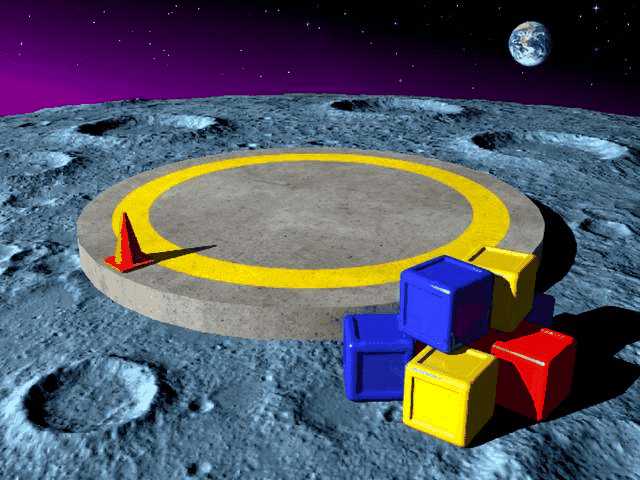
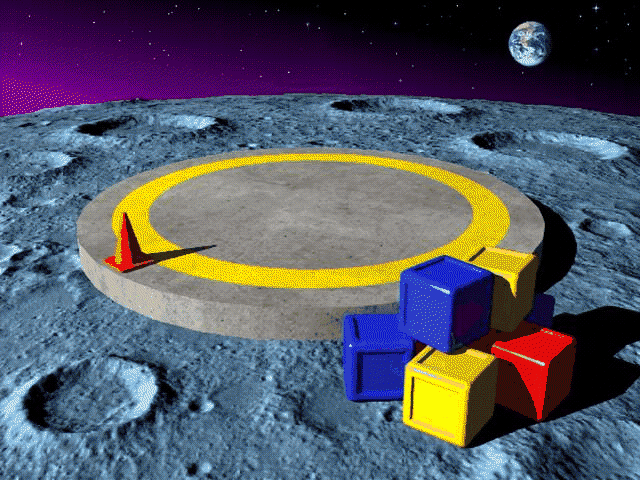
WP1 palette-lås: én masterpalette pr. fase (dag/nat, 255 + transparent) for alle bg + sprites via tools/art/pallock.py; nat-baggrunde bages (*_nat.png) i stedet for darken(); grund-plader uden rgba; dialogboks som 2×2-dither i stedet for rgba(0,0,0,.72); ulåste kilder i assets/unlocked. A3: hub 759→

diff --git a/style.css b/style.css
@@ -24,7 +24,7 @@ body { font-family: var(--ui-font); -webkit-font-smoothing: none; font-smooth: n
 
 /* Era text box: top of screen, white text on translucent black */
 /* Era text box: top of screen, 1-bit text rasterised on the 640 grid (canvas, never DOM text) */
-#dialog { position: absolute; left: 0; top: 0; width: 640px; height: 76px; padding: 8px 12px; background: rgba(0,0,0,.72); pointer-events: auto; }
[1 lines of base64/hex data omitted]
 #dialog[hidden] { display: none; }
 #dialog .text canvas { display: block; image-rendering: pixelated; }
 #dmore { position: absolute; right: 10px; bottom: 2px; font: 12px var(--ui-font); color: #fff; font-style: normal; animation: blink 1s steps(2) infinite; }

diff --git a/src/art/placeholder.js b/src/art/placeholder.js
@@ -140,8 +140,8 @@ export function drawBuilding(g, x, y, stage, kind, night = false) {
   g.save(); g.translate(x, y);
   const base = night ? '#2c2f3a' : '#dfe1ea', dark = night ? '#15171f' : '#8d93a8', accent = night ? '#5a4610' : '#ffbf2f';
   if (stage === 0) {
-    g.fillStyle = night ? 'rgba(40,44,56,.9)' : 'rgba(120,124,140,.8)'; g.fillRect(-26, -4, 52, 10);
-    g.fillStyle = night ? '#555' : '#fff'; g.fillRect(-2, -22, 4, 18); g.fillStyle = accent; g.fillRect(2, -22, 14, 9);
+    g.fillStyle = night ? '#2a2d3a' : '#9aa0b4'; g.fillRect(-26, -4, 52, 10); g.fillStyle = night ? '#15171f' : '#6b7088'; g.fillRect(-26, 5, 52, 1); // WP1: faste palettefarver, ingen rgba (A3)
+    g.fillStyle = night ? '#5a5d6a' : '#fff'; g.fillRect(-2, -22, 4, 18); g.fillStyle = accent; g.fillRect(2, -22, 14, 9);
     g.restore(); return;
   }
   const lean = stage === 1 ? -0.12 : 0;

diff --git a/tools/art/pallock.py b/tools/art/pallock.py
@@ -1,0 +1,115 @@
+# tools/art/pallock.py — WP1 palette-lås (c8, 10-11-2026). QC-POLISH-PLAN §2 WP1 / QUALITY-PLAN §3 gate A3 (≤256 farver pr. frame).
+#
+# Én masterpalette pr. fase (dag / nat): 255 farver + ét transparent indeks (255). Alt spillet tegner fra assets/ i hub og
+# opgavescener remappes til den, så en frame holder sig ≤256 farver uden runtime-kvantisering (council afviste runtime).
+#   Dag : assets/bg/<navn>.png + assets/sprites/{aliens,helper,helper_chair,bld_*}.png + faste UI-farver (knapper, tekst, flag).
+#   Nat : assets/bg/<navn>_nat.png BAGES her fra dag-bg'en med nat-LUT'en (samme formel som nightlut.py: lys 50 %, mætning 50 %,
+#         kold drejning) og remappes sammen med assets/sprites/*_nat.png til nat-paletten. Dermed forsvinder darken()-fallbacken
+#         (rgba + saturation-composite) og bg-404'erne for *_nat.png.
+# Kør EFTER bld.py / aliens.py / helper.py / chair.py / nightlut.py — de skriver friske (ulåste) sprites; dette script låser dem.
+# Paletterne gemmes som 16×16-swatches i assets/pal/{dag,nat}.png (dokumentation + ?dev&pal-overlay hvis det nogensinde bygges).
+# Ulåste kilder gemmes i assets/unlocked/ (committes). Låste filer bærer PNG-tEXt pallock=1, så scriptet kan køres igen uden drift.
+# Brug: ~/Documents/tools/pyimg/bin/python -I tools/art/pallock.py [--dry]      (Pillow; køres fra repo-roden)
+import sys, os, glob, shutil
+from PIL import Image, ImageEnhance, PngImagePlugin
+UNL = 'assets/unlocked'  # ulåste kilder; en låst fil bærer tEXt-chunken pallock=1 og læses aldrig som kilde igen (idempotent)
+
+def source(path):
+    """Returnerer stien til den ULÅSTE kilde for path: en frisk (umarkeret) fil kopieres til assets/unlocked/ først."""
+    u = os.path.join(UNL, os.path.relpath(path, 'assets'))  # assets/unlocked/bg/hub.png, assets/unlocked/sprites/aliens.png
+    if 'pallock' not in Image.open(path).info: os.makedirs(os.path.dirname(u), exist_ok=True); shutil.copy2(path, u)
+    elif not os.path.exists(u): raise SystemExit(f'{path} er låst, men {u} mangler – gendan kilden (git) før pallock')
+    return u
+
+DRY = '--dry' in sys.argv
+BG_DIR, SPR_DIR, PAL_DIR = 'assets/bg', 'assets/sprites', 'assets/pal'
+T = 255  # transparent index
+# Faste UI-farver (style.css, hub.js, scene.js, fx.js, dialog.js) — skal ligge i paletten, ellers bliver krom/tekst off-palette.
+UI = ['#000000', '#ffffff', '#404040', '#808080', '#f4f1ea', '#5e5a52', '#111111', '#0a246a', '#1b4fb0', '#ffd34a', '#ffd800',
+      '#d4d0c8', '#dfe1ea', '#e8e4d8', '#c9c3b3', '#333333', '#2a2d3a', '#2c2f3a', '#3a3d4a', '#ffe9a0', '#ffd21f', '#d02020', '#ffbf2f', '#5a4610', '#2a2824', '#9aa0b4', '#6b7088', '#5a5d6a', '#15171f', '#8d93a8', '#3b4a7a', '#ffd58a', '#6a5a28', '#c9a516', '#e8e4d8']
+UI = [tuple(int(h[i:i + 2], 16) for i in (1, 3, 5)) for h in UI]
+
+def nightlut(rgb):
+    rgb = ImageEnhance.Color(rgb).enhance(0.5); rgb = ImageEnhance.Brightness(rgb).enhance(0.5)
+    r, g, b = rgb.split(); b = b.point(lambda v: min(255, int(v * 1.06 + 6))); r = r.point(lambda v: int(v * 0.96))
+    return Image.merge('RGB', (r, g, b))
+
+def opaque_strip(im):
+    """RGBA → RGB-strimmel af kun de uigennemsigtige pixels (så transparent ikke tæller med i paletten)."""
+    px = [p[:3] for p in im.getdata() if p[3] > 100]
+    if not px: return None
+    w = 1024; h = (len(px) + w - 1) // w
+    s = Image.new('RGB', (w, h), px[0]); s.putdata(px + [px[0]] * (w * h - len(px)))
+    return s
+
+def build_palette(rgb_images):
+    """Mediancut over alle billeder → 255 - len(UI) farver + UI-farverne; indeks 255 = transparent (sort)."""
+    h = sum(i.height for i in rgb_images); w = max(i.width for i in rgb_images)
+    sheet = Image.new('RGB', (w, h)); y = 0
+    for i in rgb_images: sheet.paste(i, (0, y)); y += i.height
+    n = 255 - len(UI)
+    q = sheet.quantize(colors=n, method=Image.Quantize.MEDIANCUT)
+    pal = q.getpalette()[:n * 3]
+    cols = [tuple(pal[i:i + 3]) for i in range(0, len(pal), 3)]
+    for c in UI:
+        if c not in cols: cols.append(c)
+    while len(cols) < 255: cols.append((0, 0, 0))
+    cols = cols[:255] + [(0, 0, 0)]  # 256 = transparent slot (sort; opaque sort går til et andet indeks, se remap)
+    pimg = Image.new('P', (16, 16)); pimg.putpalette(sum(map(list, cols), []))
+    pimg.putdata(list(range(256)))
+    return pimg, cols
+
+def remap(rgb, pimg, alpha=None, dither=Image.Dither.FLOYDSTEINBERG):
+    """RGB (+ binær alpha) → P-billede på masterpaletten. Floyd-Steinberg som nightlut.py. Indeks 255 reserveres til transparent."""
+    q = rgb.quantize(palette=pimg, dither=dither)
+    data = list(q.getdata())
+    black = next(i for i, c in enumerate(pimg.getpalette()[:765:3]) if True)  # indeks 0 bruges hvis 255 vælges for sort
+    cols = pimg.getpalette(); blk = [i for i in range(255) if cols[i * 3:i * 3 + 3] == [0, 0, 0]]
+    blk = blk[0] if blk else 0
+    if alpha is not None:
+        a = list(alpha.getdata())
+        data = [T if a[i] <= 100 else (blk if v == T else v) for i, v in enumerate(data)]
+    else:
+        data = [blk if v == T else v for v in data]
+    out = Image.new('P', rgb.size); out.putpalette(pimg.getpalette()); out.putdata(data)
+    return out
+
+def save(im, path, transparent):
+    if DRY: print('  (dry)', path); return
+    meta = PngImagePlugin.PngInfo(); meta.add_text('pallock', '1')
+    if transparent: im.save(path, optimize=True, transparency=T, pnginfo=meta)
+    else: im.save(path, optimize=True, pnginfo=meta)
+
+def ncolors(path):
+    im = Image.open(path).convert('RGBA'); return len({p for p in im.getdata() if p[3] > 0})
+
+bgs = sorted(p for p in glob.glob(f'{BG_DIR}/*.png') if not p.endswith('_nat.png'))
+sprs = sorted(p for p in glob.glob(f'{SPR_DIR}/*.png') if not p.endswith('_nat.png'))
+sprs_nat = sorted(glob.glob(f'{SPR_DIR}/*_nat.png'))
+print('bg:', [os.path.basename(p) for p in bgs]); print('sprites:', [os.path.basename(p) for p in sprs]); print('nat-sprites:', [os.path.basename(p) for p in sprs_nat])
+os.makedirs(PAL_DIR, exist_ok=True)
+
+for phase in ('dag', 'nat'):
+    print(f'\n== {phase} ==')
+    bg_rgb = {}
+    for p in bgs:
+        im = Image.open(source(p)).convert('RGB'); bg_rgb[p] = nightlut(im) if phase == 'nat' else im
+    spr_src = sprs if phase == 'dag' else sprs_nat
+    spr_rgba = {p: Image.open(source(p)).convert('RGBA') for p in spr_src}
+    samples = [im.resize((im.width // 3, im.height // 3), Image.Resampling.NEAREST) for im in bg_rgb.values()]  # bg vægtes ned (1/9)
+    strips = [s for s in (opaque_strip(im) for im in spr_rgba.values()) if s is not None]
+    samples += strips + strips  # sprites vægtes op (×2): små figurer tåler færre farver end baggrunde
+    pimg, cols = build_palette(samples)
+    if not DRY: pimg.save(f'{PAL_DIR}/{phase}.png')
+    print(f'palette: {len(set(cols[:255]))} farver + transparent')
+    for p, im in bg_rgb.items():
+        dst = p if phase == 'dag' else p[:-4] + '_nat.png'
+        before = ncolors(source(p)) if phase == 'dag' else None
+        out = remap(im, pimg); save(out, dst, False)
+        print(f'  {dst}: {before if before is not None else "(bagt)"} → {ncolors(dst) if not DRY else "?"}')
+    for p, im in spr_rgba.items():
+        a = im.getchannel('A'); rgb = im.convert('RGB')
+        before = ncolors(source(p))
+        out = remap(rgb, pimg, alpha=a, dither=Image.Dither.NONE); save(out, p, True)  # sprites uden dither: FS gav støj på små figurer
+        print(f'  {p}: {before} → {ncolors(p) if not DRY else "?"}')
+print('\nfærdig' + (' (dry run, intet skrevet)' if DRY else ''))

diff --git a/tools/art/offpal.py b/tools/art/offpal.py
@@ -1,0 +1,22 @@
+# tools/art/offpal.py — hvilke pixels i et skærmbillede ligger UDEN FOR masterpaletten? (c8, WP1-diagnose; offline-udgave af ?dev&pal)
+# Brug: ~/Documents/tools/pyimg/bin/python -I tools/art/offpal.py <shot.png> <assets/pal/dag.png|nat.png> <mask_out.png>
+# Skriver maske (palette-pixels = mørkegrå, off-palette = cyan) og lister de hyppigste off-farver med bounding box.
+import sys
+from PIL import Image
+shot, palp, outp = sys.argv[1:4]
+pal = Image.open(palp); cols = pal.getpalette(); PAL = {tuple(cols[i:i + 3]) for i in range(0, 768, 3)}
+im = Image.open(shot).convert('RGB'); W, H = im.size
+px = im.load(); mask = Image.new('RGB', im.size, (40, 40, 40)); mp = mask.load()
+off = {}
+for y in range(H):
+    for x in range(W):
+        c = px[x, y]
+        if c not in PAL:
+            mp[x, y] = (0, 255, 255)
+            e = off.setdefault(c, [0, x, y, x, y]); e[0] += 1
+            e[1] = min(e[1], x); e[2] = min(e[2], y); e[3] = max(e[3], x); e[4] = max(e[4], y)
+mask.save(outp)
+tot = sum(e[0] for e in off.values())
+print(f'{shot}: {len(set(im.getdata()))} farver i alt, {len(off)} off-palette farver, {tot} off-pixels ({100*tot/(W*H):.2f} %)')
+for c, e in sorted(off.items(), key=lambda kv: -kv[1][0])[:25]:
+    print(f'  #{c[0]:02x}{c[1]:02x}{c[2]:02x}  {e[0]:6d} px  box x{e[1]}-{e[3]} y{e[2]}-{e[4]}')
